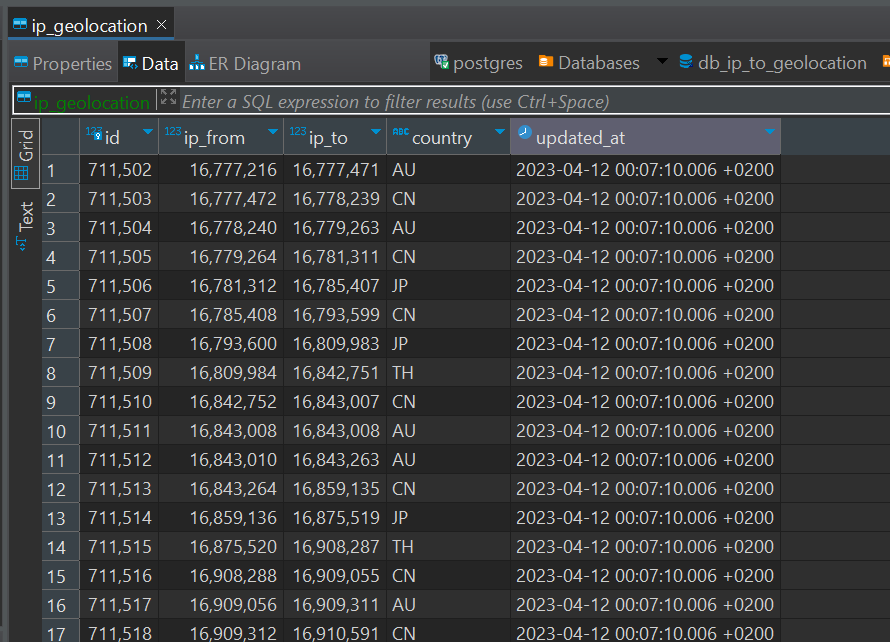
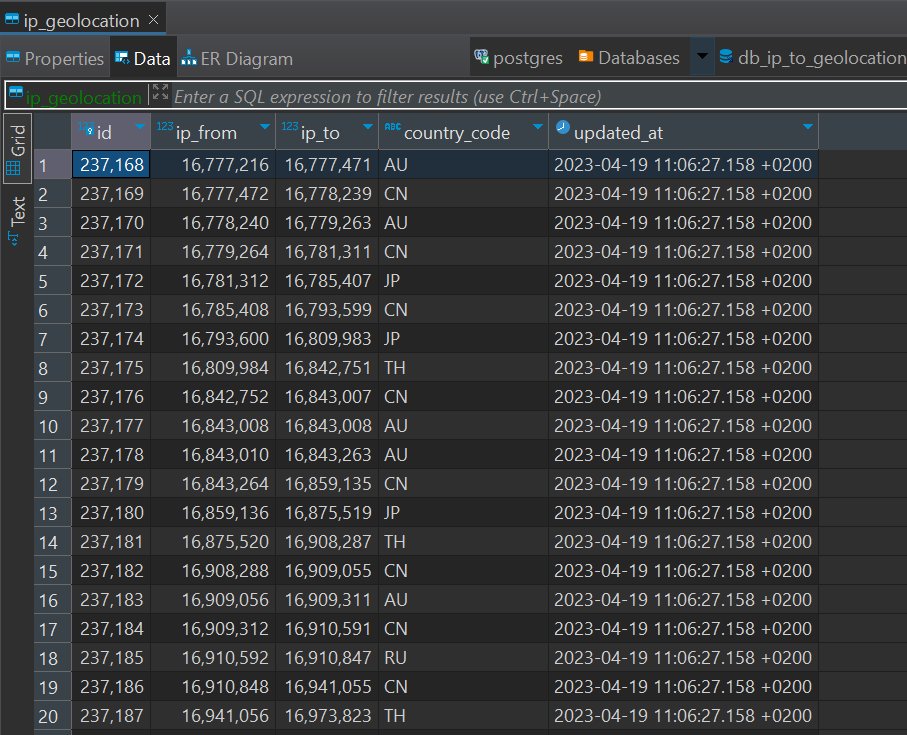
Updated documentation

Changed region(s): [[0.0, 0.0, 1.0, 1.0]]

diff --git a/README.md b/README.md
@@ -52,16 +52,16 @@ Follow the next steps:
 </div>
 
 * Upload data:
-    * Download the `geolite2-country-ipv4.csv` file from [here](https://github.com/sapics/ip-location-db).
-    * Open a browser and type `http://127.0.0.1:8000/docs` in the address bar to open an interactive view of the backend service.
-    * Press the `Try out` option, select the downloaded file and press `Execute` to upload the file.
+	  * Install the required python packages via `pip install -r requirements.txt`. (It is recommended to use virtual environments when installing them to avoid conflicting version issues).
+	  * Open a terminal window and type `python insert_data.py` to download the data and upload it.
+	  * (Optional) Schedule the script to run automatically on a weekly basis.
 
 <div>
 	<div align="middle">
 		<img src="documentation/Uploading new data.png" alt="Uploading new data" height=300>
 	</div>
 	<div align="middle">
-	  <i>Running the frontend.</i>
+	  <i>Uploading new data.</i>
 	</div>
 </div>
 
@@ -72,12 +72,16 @@ Follow the next steps:
 Find below a rough estimation of database requirements.
 
 Assumptions:
+
 * Amount of IP ranges: 240k
-* Hold histrical records: No
+* Hold historical records: Yes
+* Data refresh rate: Weekly
+* Data history retention: 5 years
 
 Database size:
+
 * Record size: 2*64 (BIGINT) + 13 (TIMESTAMP) + 4 (VARCHAR) = 145 bytes 
-* Required database size: 145 * 240k = 34 Mb
+* Required database size: 145 * 240k * 52 (weeks/year) * 5 (years) = 9 Gb
 
 ### 3.2. Technology stack
 
@@ -93,7 +97,7 @@ The architecture of the code works in the following way:
 * A HTML form allows the user to input his feedback and submit it via JQuery to the server.
 * The server running the backend (implemented in FastAPI) will receive the form data and, if correct, it will add it to the database.
 
-Note that a microservice architecture philosophy was followed, as this should allow the application to receive feedback from users even when the other services are down (as long as they are not located in the same machines).
+Note that a microservice architecture philosophy was followed, as this should allow the application to receive requests from users even when the other services are down (as long as they are not located in the same machines).
 
 <div>
 	<div align="middle">
@@ -105,22 +109,21 @@ Note that a microservice architecture philosophy was followed, as this should al
 </div>
 
 ### 3.4. Endpoints
-The application structure is pretty simple. It is composed of two API endpoints. 
+The application structure is pretty simple. It is composed of one API endpoint:
+
 * `/geolocation`: It expects an IP address as an input and outputs the country from which the given IP originated from.
-* `/new_geolocation_data`: It is a utility function to facilitate the refresh and upload of the database table that contains the mapping from IP ranges to countries. (Note that in production environments, this endpoint should be only accessible to authorized users, as it allows to upload any data in the database).
 
 <p align="middle">
   <img src="documentation/Endpoints.png" alt="Endpoints" height=300></br>
-  <i>Endpoints.</i>
+  <i>Endpoint/s.</i>
 </p>
 
 ## 3. Future functionalities/Considerations
-As a proof of concept of a IP-to-Geolocation application, the source code doesn't implement all the functionalities that this kind of applications should have. On one hand, only the country of origin is being retrieved (no province or cities are being provided). On the other hand, the data in the database is expected to be manually uploaded, which can be time consuming as well as introduce human errors in the process. Also, this operation is not done in the background, which causes a blocking issue (although it is not a big deal with such a small dataset). It should also be noted that the data upload endpoint is directly exposed via the API service. This steps should be moved to an independent service, to avoid unwanted uploads to the database.
+As a proof of concept of a IP-to-Geolocation application, the source code doesn't implement all the functionalities that this kind of applications should have. On one hand, only the country of origin is being retrieved (no province or cities are being provided). On the other hand, the data in the database is expected to be manually uploaded, which can be time consuming as well as introduce human errors in the process. Also, this operation is not done in the background, which causes a blocking issue (although it is not a big deal with such a small dataset).
 
 Find below a list of functionalities that will need to be considered implementing in the current repository to make it fully functional as well as some nice-to-have functionalities: 
 
 * Province and city data should be added to the database to make the queries more complete and useful.
-* One of the endpoints is used to upload CSV data into the Database. In production settings, these endpoint should only be accessible to authorized people, to avoid people uploading erroneous data.
 * Upload file's content should be sanitized to ensure no malicious code is placed in the database.
 * For this small size database, it should be possible to implement a in-memory database, to speed up the queries. 
 * It should be possible to implement a date dependant search option, to know from where a given IP come from in a given moment in time.
